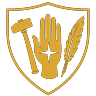
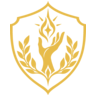
v0.53.28: atualiza brasao dos humanos

diff --git a/CHANGELOG.md b/CHANGELOG.md
@@ -1,3 +1,13 @@
+## v0.53.28 — novo brasão dos Humanos (16/09/2026)
+
+Substitui o antigo brasão de martelo, mão e pena pela nova composição de mãos
+erguidas, ramos e símbolo divino. A arte recebida foi limpa dos resíduos
+cromáticos, convertida para gradiente dourado, preservada com transparência e
+adequada ao ativo `96×96` já utilizado nos dois retratos raciais da ficha.
+
+O caminho do recurso e o layout não mudaram: todas as referências continuam
+apontando para `imagens/brasao_raca_humanos.png`.
+
 ## v0.53.27 — alinhamento uniforme da durabilidade (16/09/2026)
 
 Itens sem durabilidade passam a exibir `0 / 0` e conservam a mesma largura de

diff --git a/README.md b/README.md
@@ -9,7 +9,7 @@ número** — para o jogador conferir sem abrir o livro e o mestre auditar de
 relance.
 
 <p align="center">
-  <img alt="versão" src="https://img.shields.io/badge/versão-0.53.27-C9A24B">
+  <img alt="versão" src="https://img.shields.io/badge/versão-0.53.28-C9A24B">
   <img alt="Firecast SDK" src="https://img.shields.io/badge/Firecast%20SDK-3.7b-8A63C9">
   <img alt="Lua" src="https://img.shields.io/badge/Lua-5.3-000080">
 </p>
